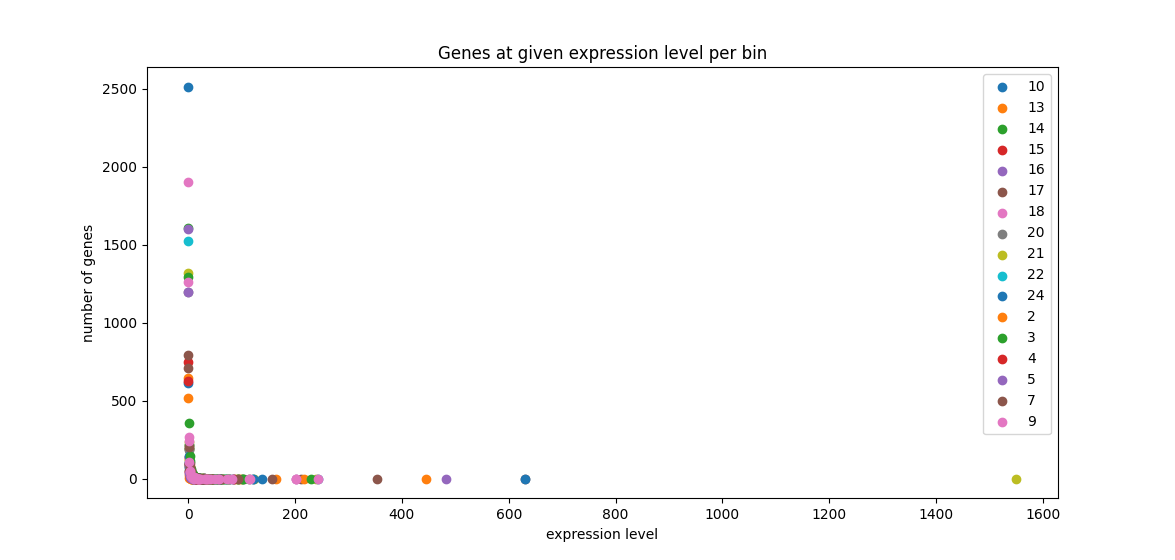
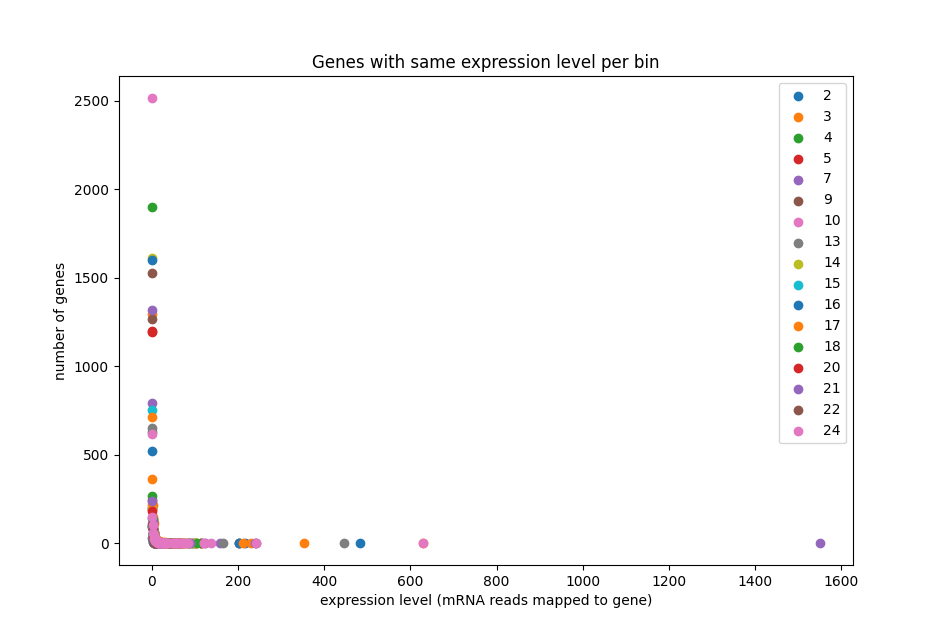
updated graphics slightly, and added new code

diff --git a/expression_analysis/expressions_stats.py b/expression_analysis/expressions_stats.py
@@ -24,18 +24,31 @@ for expression_level_file in os.listdir('.'):
 		lines=[line for line in lines if len(line)>0]
 
 		segments=[line.split('\t') for line in lines]
+		
 		for (sequence_name,source,feature,start,end,noclue1,noclue2,noclue3,features) in segments:
 			if feature in features_found:
 				features_found[feature]+=1
 			else:
 				features_found[feature]=1
 
-		segments=[
-			(sequence_name,source,feature,start,end,noclue1,noclue2,noclue3,features) 
-			for (sequence_name,source,feature,start,end,noclue1,noclue2,noclue3,features) 
-			in segments 
-			if feature=="CDS"
-		]
+		segments=filter(lambda line:line[2]=='CDS',segments)
+		segments=list(segments)
+		#print("number of segments in current bin after filtering of non-cds features:",len(segments))
+
+		def get_product_name_from_line(line):
+			attributes=line[8].split(';')
+			found=None
+			for attribute in attributes:
+				(key,value)=attribute.split('=')
+				if key=='product':
+					found=value
+			assert found!=None
+
+			return found
+
+		segments=filter(lambda line:get_product_name_from_line(line) not in "hypothetical protein,putative protein".split(','),segments)
+		segments=list(segments)
+		#print("number of segments in current bin after filtering of hypothetical proteins:",len(segments))
 
 		sequence_data={}
 
@@ -76,20 +89,27 @@ for expression_level_file in os.listdir('.'):
 			[gene_id,count]=line.split(',')
 			count=int(count[:-1])
 
-			sequence_data[gene_id]['count']=count
+			if gene_id in sequence_data:
+				sequence_data[gene_id]['count']=count
+			else:
+				# gene encodes hypothetical protein, which we ignore
+				pass
 
 	stats=bin_stats[bin_num]
 
-	hypothetical_proteins_expressed=0
-	hypothetical_proteins_not_expressed=0
-	for gene_id in stats.keys():
-		gene=stats[gene_id]
-		product_value=gene["product"]
-		if product_value in "hypothetical protein,putative protein".split(','):
-			if gene['count']==0:
-				hypothetical_proteins_not_expressed+=1
-			else:
-				hypothetical_proteins_expressed+=1
+	# this is now impossible, because further up hypothetical and putative proteins are removed
+	hypothetical_proteins_present=False
+	if hypothetical_proteins_present:
+		hypothetical_proteins_expressed=0
+		hypothetical_proteins_not_expressed=0
+		for gene_id in stats.keys():
+			gene=stats[gene_id]
+			product_value=gene["product"]
+			if product_value in "hypothetical protein,putative protein".split(','):
+				if gene['count']==0:
+					hypothetical_proteins_not_expressed+=1
+				else:
+					hypothetical_proteins_expressed+=1
 
 for (key,value) in features_found.items():
 	print('|',key,'|',value,'|')
@@ -97,35 +117,38 @@ for (key,value) in features_found.items():
 # sort dictionary by bin key for better tables further down
 bin_stats={key: value for key, value in sorted(bin_stats.items(), key=lambda item: item[0])}
 
-plot_expression_levels=False
+plot_expression_levels=True
 
 for bin_key in bin_stats.keys():
-	expression_levels=[
-		gene['count']
-		for gene
-		in bin_stats[bin_key].values()
-	]
-	expression_level_stuff={}
-	for level in expression_levels:
-		if level in expression_level_stuff:
-			expression_level_stuff[level]+=1
-		else:
-			expression_level_stuff[level]=1
+	expression_levels=filter(lambda gene:gene['product'] not in "hypothetical protein,putative protein".split(','),bin_stats[bin_key].values())
+	expression_levels=sorted(expression_levels, key=lambda item: item['count'],reverse=True)
+	top_n=5
+	for gene in expression_levels[:top_n]:
+		expression_level=gene['count']
+		product_name=gene['product']
+		print('|',bin_key,'|',expression_level,'|',product_name,'|')
+	expression_levels=map(lambda gene:gene['count'],expression_levels)
 
-	expression_level_stuff=[els for els in expression_level_stuff.items()]
+	expression_level_abundances={}
+	for level in expression_levels:
+		if level in expression_level_abundances:
+			expression_level_abundances[level]+=1
+		else:
+			expression_level_abundances[level]=1
+
+	expression_level_abundances=list(expression_level_abundances.items())
 	#sum of all levels to normalize to max expression per bin
-	whole_expression=sum([level for (level,value) in expression_level_stuff])
+	whole_expression=sum([level for (level,value) in expression_level_abundances])
 	#sum of all genes to normalize to number of genes per bin
-	whole_count=sum([value for (level,value) in expression_level_stuff])
+	whole_count=sum([value for (level,value) in expression_level_abundances])
 
 	#allow all genes, not only those expressed (expression level >0) and those with non-unique expression level (count>1). the latter is used to make the plot more compact, and the former is used to restrict the plot to 'really' expressed genes
 	allow_all=False
 	#level=intensity of expression
 	#count=number of genes at given expression level
-	xv=[level for (level,count) in expression_level_stuff if allow_all or (level>0 and count >1)]
-	yv=[count for (level,count) in expression_level_stuff if allow_all or (level>0 and count >1)]
+	xv=[level for (level,count) in expression_level_abundances if allow_all or (level>0 and count >1)]
+	yv=[count for (level,count) in expression_level_abundances if allow_all or (level>0 and count >1)]
 
-	
 	if plot_expression_levels:
 		plt.scatter(xv,yv,label="{}".format(bin_key))
 
@@ -137,26 +160,29 @@ if plot_expression_levels:
 	plt.show()
 
 # calculate fraction of hypothetical proteins
-fraction_hypothetical_proteins=[
-	(
-		sum([
-			1
-			for gene
-			in filter(lambda gene: gene['product'] in "hypothetical protein,putative protein".split(','),bin_stats[bin_key].values())
-		])/len(bin_stats[bin_key].keys()),
-		bin_key
-	)
-	for bin_key
-	in bin_stats.keys()
-]
+if hypothetical_proteins_present:
+	fraction_hypothetical_proteins=[
+		(
+			sum([
+				1
+				for gene
+				in filter(lambda gene: gene['product'] in "hypothetical protein,putative protein".split(','),bin_stats[bin_key].values())
+			])/len(bin_stats[bin_key].keys()),
+			bin_key
+		)
+		for bin_key
+		in bin_stats.keys()
+	]
 
+	print_hypothetical_protein_fractions=False
 
-print_hypothetical_protein_fractions=False
+	if print_hypothetical_protein_fractions:
+		print(max([value for value,num in fraction_hypothetical_proteins]))
+		print(min([value for value,num in fraction_hypothetical_proteins]))
+		print(sum([value for value,num in fraction_hypothetical_proteins])/len(fraction_hypothetical_proteins))
 
-if print_hypothetical_protein_fractions:
-	print(max([value for value,num in fraction_hypothetical_proteins]))
-	print(min([value for value,num in fraction_hypothetical_proteins]))
-	print(sum([value for value,num in fraction_hypothetical_proteins])/len(fraction_hypothetical_proteins))
+# save bins that express same products
+bins_per_gene={}
 
 for bin_key in bin_stats.keys():
 	# count number of genes expressing identical products
@@ -167,6 +193,11 @@ for bin_key in bin_stats.keys():
 
 		# we have no useful information on these currently, so they are omitted for this analysis
 		if gene_product not in "hypothetical protein,putative protein".split(','):
+			if gene_product in bins_per_gene:
+				bins_per_gene[gene_product][bin_key]=True
+			else:
+				bins_per_gene[gene_product]={bin_key:True}
+
 			if gene_product not in product_abundances:
 				product_abundances[gene_product]=1
 			else:
@@ -175,8 +206,16 @@ for bin_key in bin_stats.keys():
 	# sort dictionary for better tables further below
 	product_abundances={key: value for key, value in sorted(product_abundances.items(), key=lambda item: item[1],reverse=True)}
 
-	for (product_name,product_abundance) in product_abundances.items():
-		if product_abundance>5:
+	# print genes with copy number above threshold, or instead the n most often copied genes across the genome
+	print_abundances_above_threshold_instead_of_top=True
+
+	if  print_abundances_above_threshold_instead_of_top:
+		for (product_name,product_abundance) in product_abundances.items():
+			if product_abundance>5:
+				print('|',bin_key,'|',product_abundance,'|',product_name,'|')
+	else:
+		top_n=5
+		for (product_name,product_abundance) in list(product_abundances.items())[:top_n]:
 			print('|',bin_key,'|',product_abundance,'|',product_name,'|')
 
 	# count number of genes with same number of copies
@@ -190,6 +229,11 @@ for bin_key in bin_stats.keys():
 	# print(bin_key,abundances)
 
 	plt.scatter([abundance for (abundance,count) in abundances.items()],[count for (abundance,count) in abundances.items()],label="{}".format(bin_key))
+
+print("number of bins in which genes with identical product is present")
+for (product,bins) in bins_per_gene.items():
+	if len(bins)>13:
+		print('|',len(bins), '|',product,'|')
 
 plt.title("Number of genes with same copy number in each bin")
 plt.ylabel("Number of genes with same copy number")
